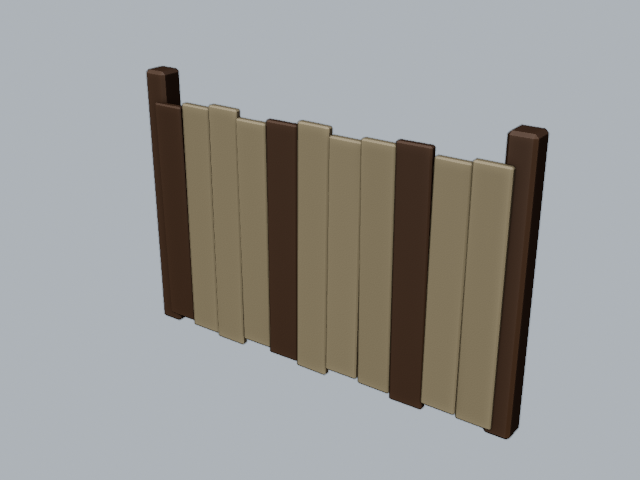
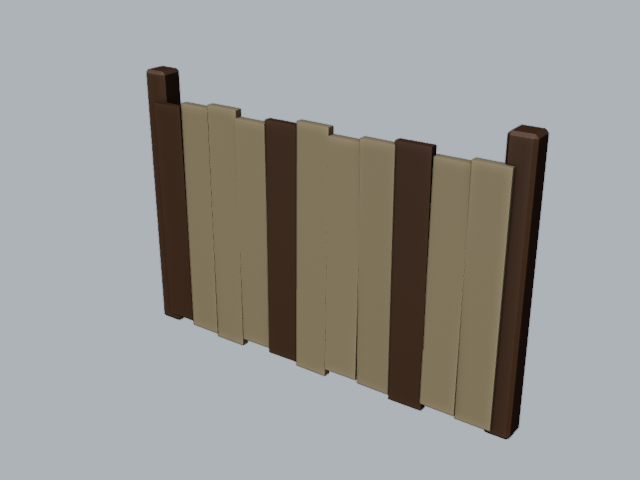
V3 C1 fixes: two restrained lane lamps for Lightning readability, fence 660 -> 308 tris, no shadows on thin repeated props

diff --git a/tools/asset_pipeline/build_v3houses.py b/tools/asset_pipeline/build_v3houses.py
@@ -238,12 +238,14 @@ def roof_ladder(c):
 
 
 def privacy_fence(c):
-    """8-stud wooden board fence section, 5 tall, posts at the ends."""
+    """8-stud wooden board fence section, 5 tall, posts at the ends. Repeated 16 times, so the
+    boards are unbevelled (a bevel on a 0.15-stud board can't be seen); posts and rails keep
+    theirs. 660 -> ~310 triangles with the same silhouette."""
     for x in (-3.8, 3.8):
         box(c, "Post", "Planks", "Bark", (0.5, 0.5, 5.4), pos=(x, 0, 2.7), bevel=0.06)
     for i in range(11):
         o = box(c, "Board", "Planks", "Sand" if i % 4 else "Bark", (0.68, 0.15, 4.6 + (i % 3) * 0.15),
-                pos=(-3.4 + i * 0.68, -0.25, 2.5), bevel=0.03)
+                pos=(-3.4 + i * 0.68, -0.25, 2.5), bevel=0.0)
         jitter(o, 0.6)
     for z in (1.2, 4.0):
         box(c, "Rail", "Planks", "Bark", (8.0, 0.3, 0.4), pos=(0, 0.1, z), bevel=0.04)
